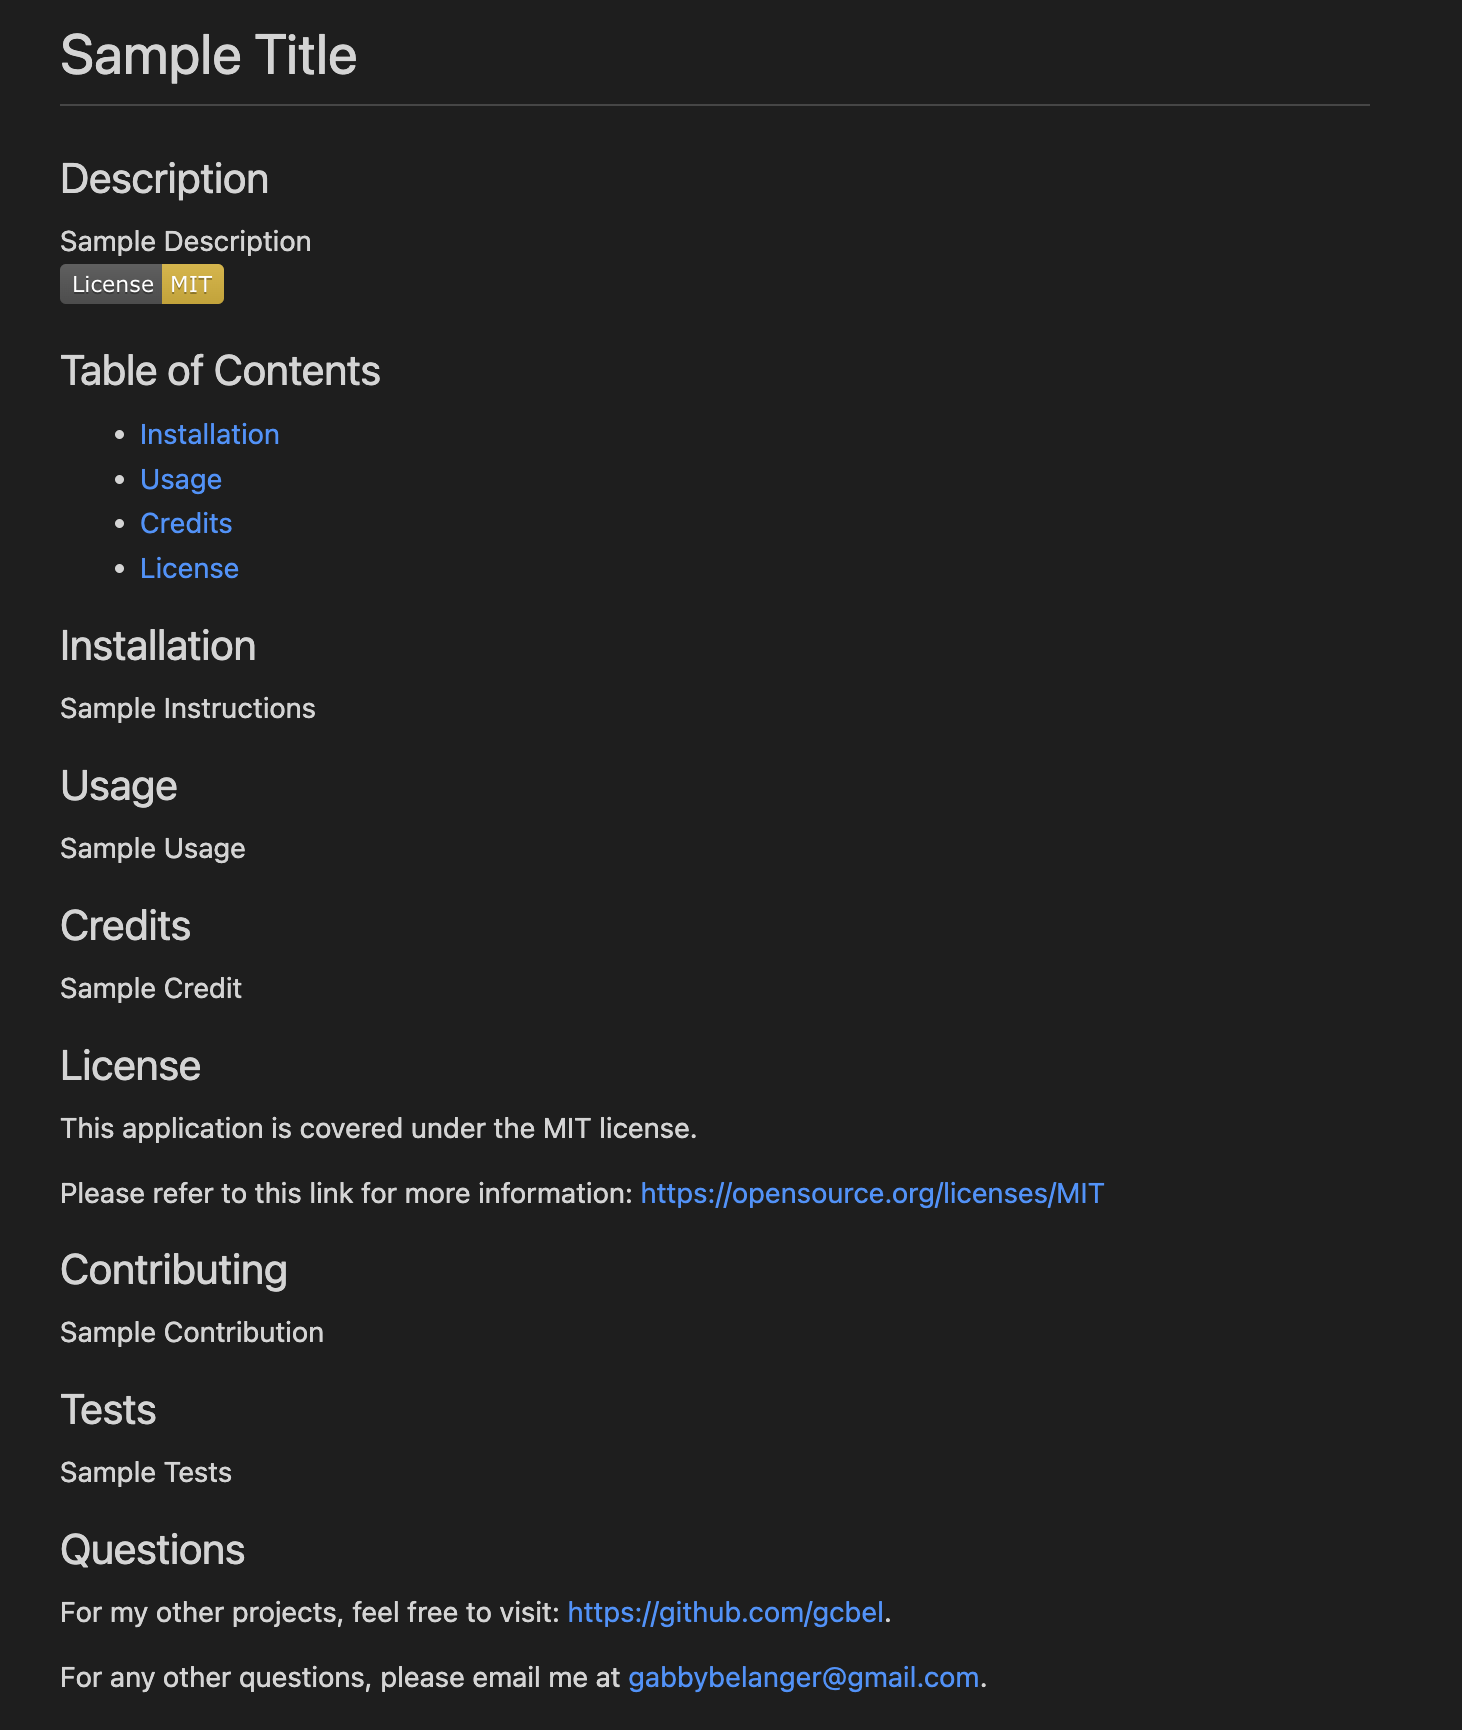
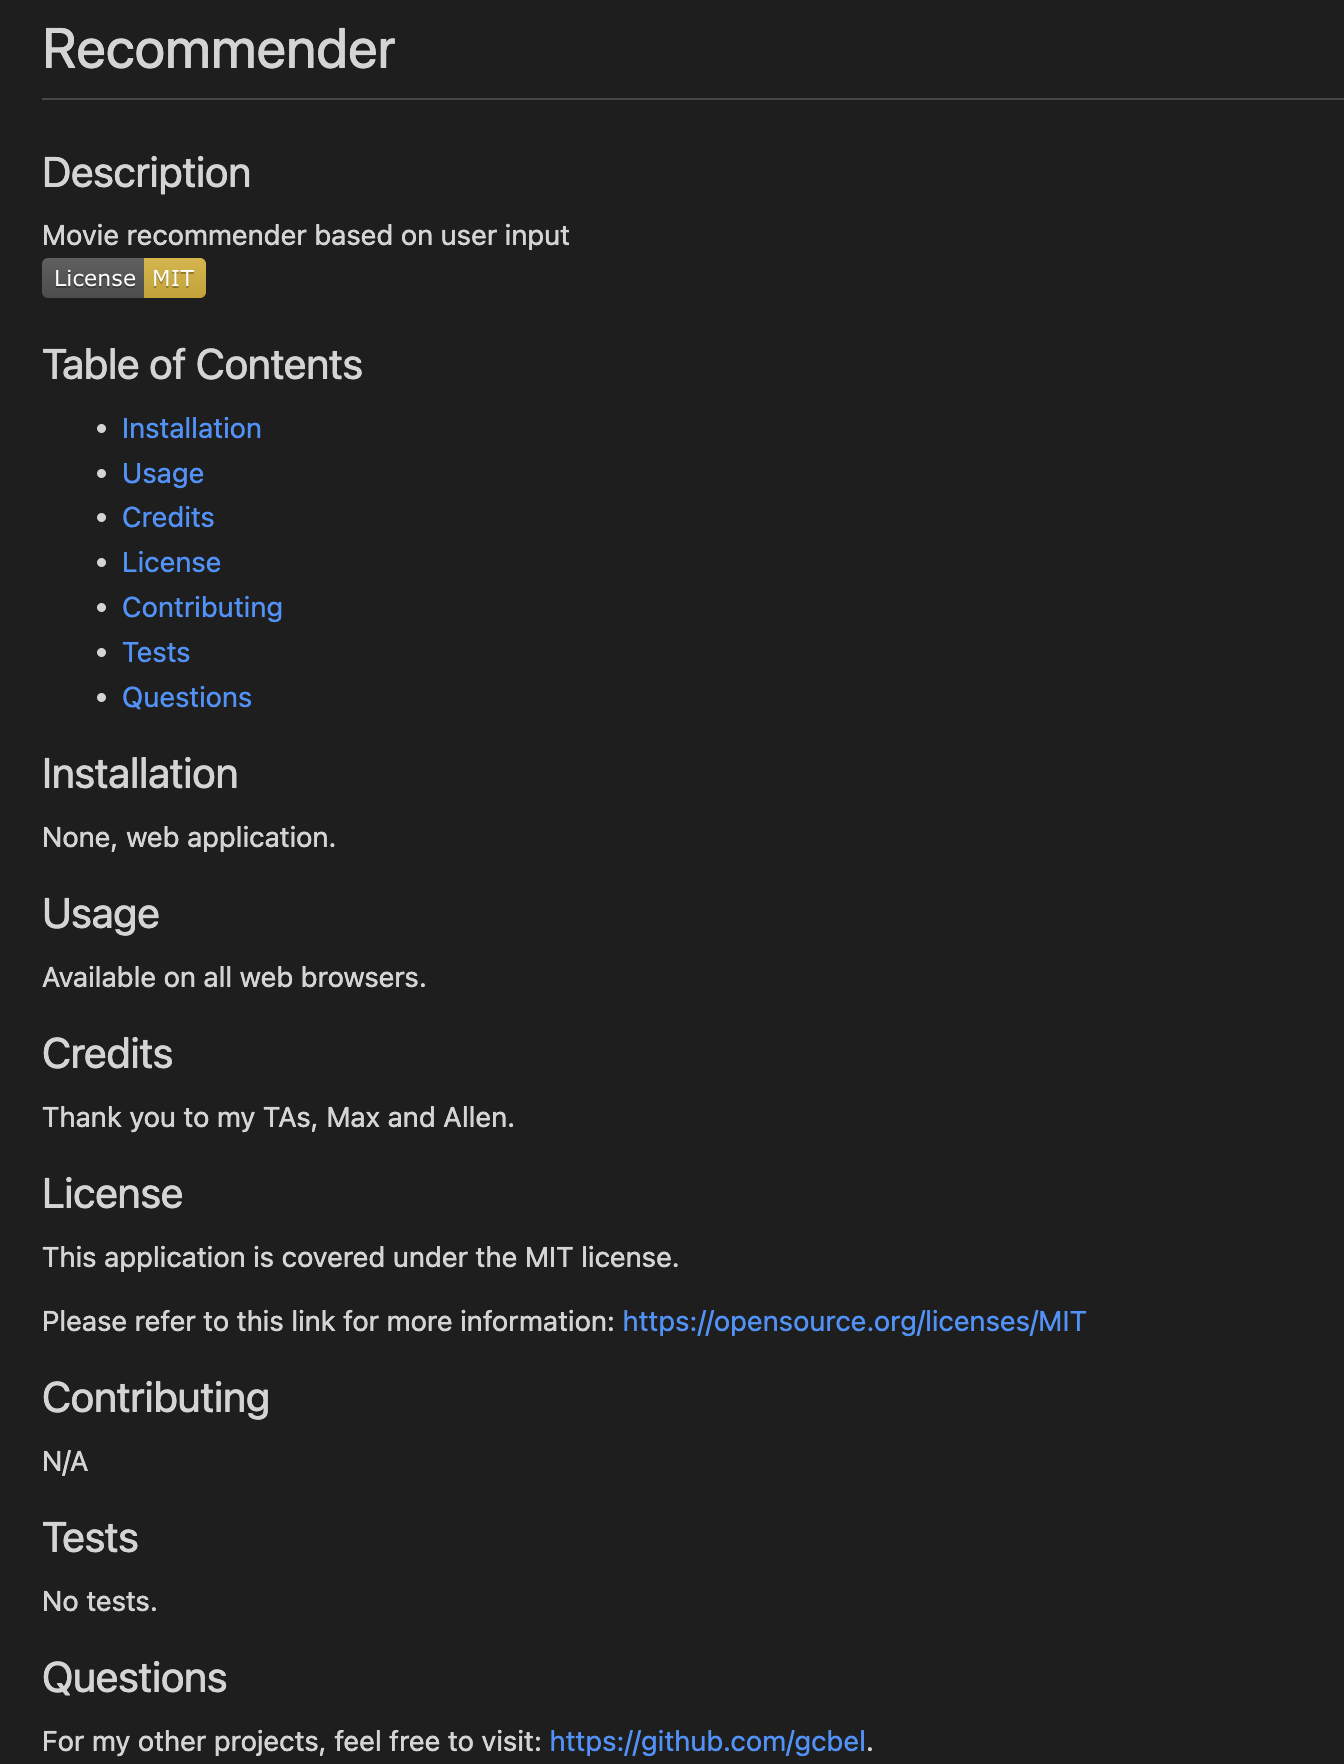
addtable of contents for all sections

diff --git a/index.js b/index.js
@@ -80,6 +80,9 @@ function writeToFile(fileName, data) {
         - [Usage](#usage)
         - [Credits](#credits)
         - [License](#license)
+        - [Contributing](#contributing)
+        - [Tests](#tests)
+        - [Questions](#questions)
 
         ## Installation
         ${data.installation}

diff --git a/examples/Recommender_README.md b/examples/Recommender_README.md
@@ -10,6 +10,9 @@ Movie recommender based on user input <br>
 - [Usage](#usage)
 - [Credits](#credits)
 - [License](#license)
+- [Contributing](#contributing)
+- [Tests](#tests)
+- [Questions](#questions)
 
 ## Installation
 None, web application.
